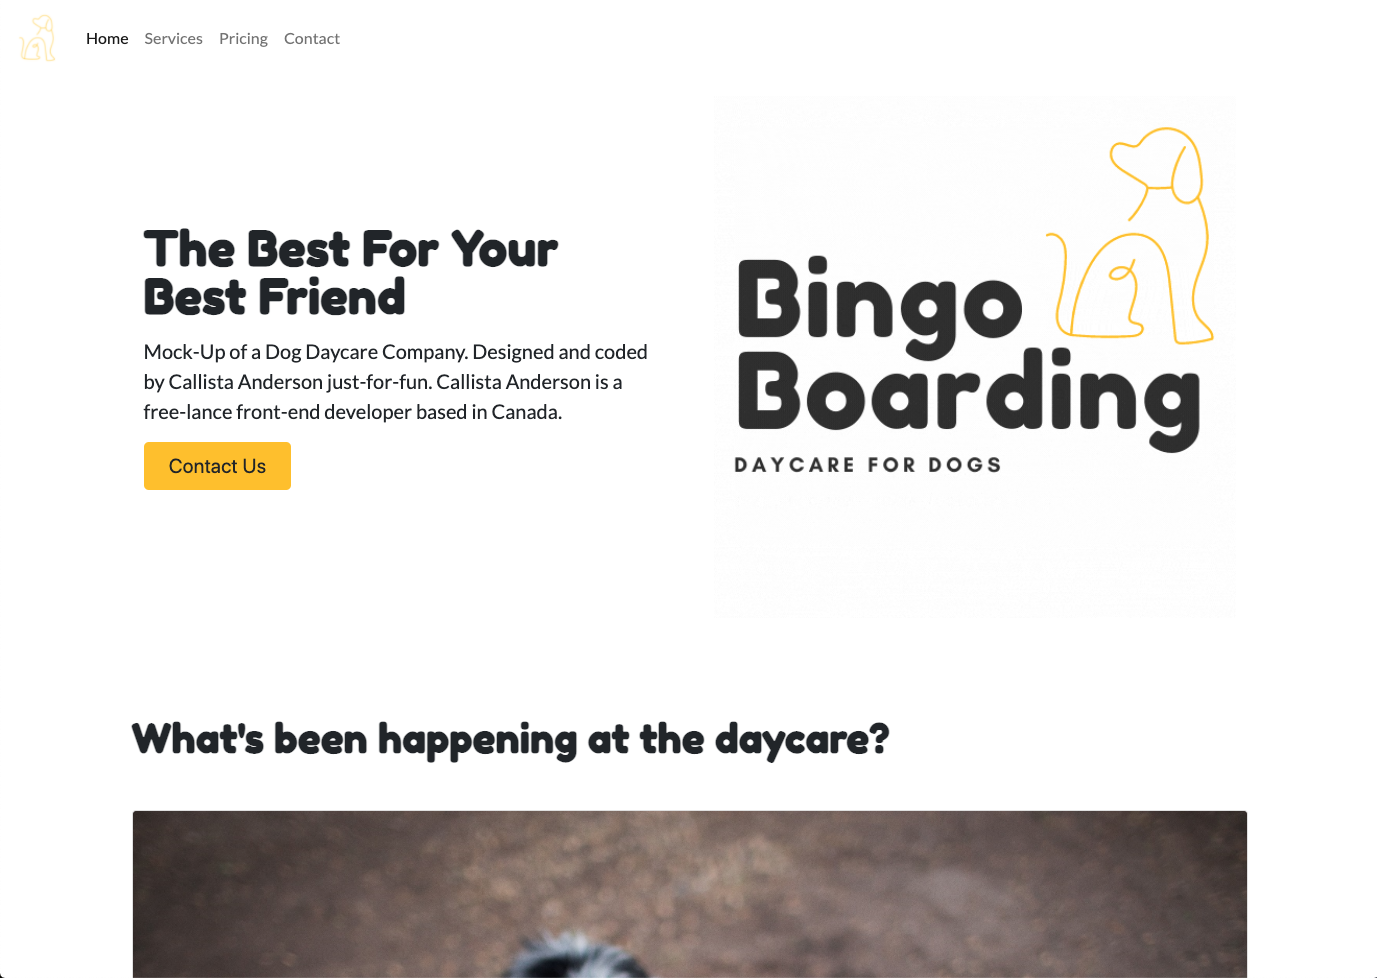
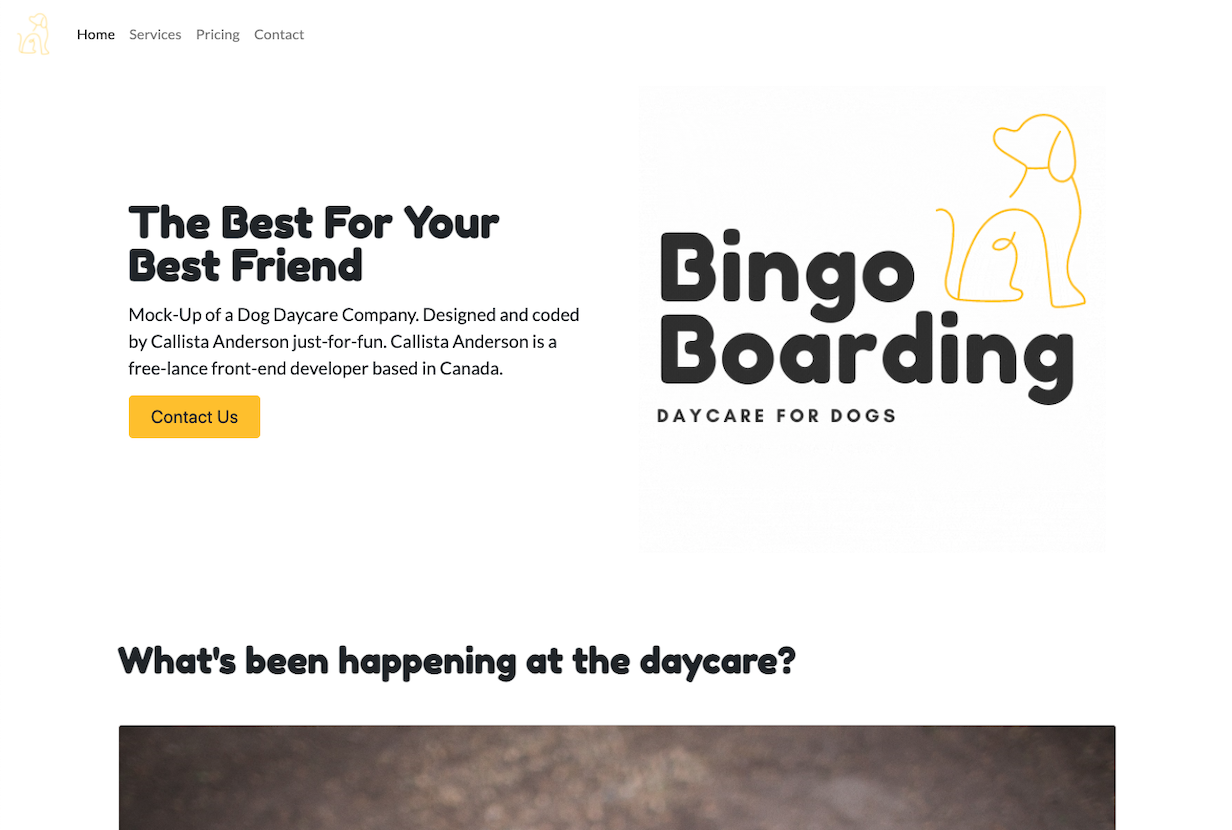
change font and colour palette

diff --git a/index.html b/index.html
@@ -12,7 +12,7 @@
     <link rel="preconnect" href="https://fonts.googleapis.com" />
     <link rel="preconnect" href="https://fonts.gstatic.com" crossorigin />
     <link
-      href="https://fonts.googleapis.com/css2?family=Nanum+Gothic&family=Nanum+Myeongjo:wght@700&display=swap"
+      href="https://fonts.googleapis.com/css2?family=Barlow:wght@700&family=Montserrat&display=swap"
       rel="stylesheet"
     />
     <script
@@ -30,7 +30,9 @@
   <body>
     <nav class="navbar sticky-top navbar-expand-md navbar-light">
       <div class="container-fluid">
-        <a class="navbar-brand" href="#">CA</a>
+        <a class="navbar-brand" href="/">
+          <img src="/img/CA.gif" class="rounded" width="50" height="50" />
+        </a>
         <button
           class="navbar-toggler"
           type="button"
@@ -53,29 +55,26 @@
       </div>
     </nav>
     <div class="hero">
-      <h1 class="pt-5">Callista Anderson</h1>
-      <p>Front-end Developer, based in Canada.</p>
+      <h1>Callista Anderson</h1>
+      <p class="text-uppercase">Front-end Developer, based in Canada.</p>
     </div>
     <div class="container mt-5" id="about-section">
       <div class="row">
         <div class="col-md-6">
           <img
-            src="https://via.placeholder.com/300x400.png?text=Photo+of+Callista+Anderson"
+            src="/img/solo-coder.png"
             class="img-fluid"
             alt="Photo of Callista Anderson"
           />
         </div>
-        <div class="col-md-6 mt-5">
+        <div class="col-md-6 mt-4">
           <h2>About Me</h2>
           <p>
-            Far far away, behind the word mountains, far from the countries
-            Vokalia and Consonantia, there live the blind texts. Separated they
-            live in Bookmarksgrove right at the coast of the Semantics, a large
-            language ocean. A small river named Duden flows by Far far away,
-            behind the word mountains, far from the countries Vokalia and
-            Consonantia, there live the blind texts. Separated they live in
-            Bookmarksgrove right at the coast of the Semantics, a large language
-            ocean. A small river named Duden flows by
+            My name is Callista. I am a free-lance front-end developer and
+            aspiring web designer based in Canada. I build webpages for
+            businesses from scratch and have completed multiple SheCodes coding
+            workshops for women. I balance this with a part-time work from home
+            admistrative job, all while being a mother to two amazing children.
           </p>
         </div>
       </div>
@@ -140,22 +139,47 @@
         </div>
       </div>
     </div>
-    <footer>
-      <div class="d-flex justify-content-center mt-5 mb-5">
-        <a class="btn contact-btn m-3" href="..." title="Facebook Link"
-          ><i class="fab fa-facebook-f"></i
-        ></a>
-        <a class="btn contact-btn m-3" href="..." title="Linkedin Link"
-          ><i class="fab fa-linkedin-in"></i
-        ></a>
-        <a class="btn contact-btn m-3" href="..." title="GitHub Link"
-          ><i class="fab fa-github"></i
-        ></a>
-        <a class="btn contact-btn m-3" href="..." title="Email Link"
-          ><i class="far fa-envelope"></i
-        ></a>
-      </div>
-    </footer>
+
+    <div class="container mt-5">
+      <footer
+        class="
+          d-flex
+          flex-wrap
+          justify-content-between
+          align-items-center
+          py-3
+          my-4
+          border-top
+        "
+      >
+        <div class="col-md-4 d-flex align-items-center">
+          <a
+            href="/"
+            class="mb-3 me-2 mb-md-0 text-muted text-decoration-none lh-1"
+          >
+            <img src="/img/CA.png" width="30" height="30" />
+          </a>
+          <span class="text-muted">&copy; 2021 Callista Anderson</span>
+        </div>
+
+        <ul class="nav col-md-4 justify-content-end list-unstyled d-flex">
+          <li class="ms-3">
+            <a class="text-muted" href="#"><i class="fab fa-facebook-f"></i></a>
+          </li>
+          <li class="ms-3">
+            <a class="text-muted" href="#"
+              ><i class="fab fa-linkedin-in"></i
+            ></a>
+          </li>
+          <li class="ms-3">
+            <a class="text-muted" href="#"><i class="fab fa-github"></i></a>
+          </li>
+          <li class="ms-3">
+            <a class="text-muted" href="#"><i class="far fa-envelope"></i></a>
+          </li>
+        </ul>
+      </footer>
+    </div>
     <script
       src="https://cdn.jsdelivr.net/npm/bootstrap@5.1.0/dist/js/bootstrap.bundle.min.js"
       integrity="sha384-U1DAWAznBHeqEIlVSCgzq+c9gqGAJn5c/t99JyeKa9xxaYpSvHU5awsuZVVFIhvj"

diff --git a/portfolio.html b/portfolio.html
@@ -14,7 +14,7 @@
       <link rel="preconnect" href="https://fonts.googleapis.com" />
       <link rel="preconnect" href="https://fonts.gstatic.com" crossorigin />
       <link
-        href="https://fonts.googleapis.com/css2?family=Nanum+Gothic&family=Nanum+Myeongjo:wght@700&display=swap"
+        href="https://fonts.googleapis.com/css2?family=Barlow:wght@700&family=Montserrat&display=swap"
         rel="stylesheet"
       />
       <script
@@ -32,7 +32,9 @@
     <body>
       <nav class="navbar sticky-top navbar-expand-md navbar-light">
         <div class="container-fluid">
-          <a class="navbar-brand" href="#">CA</a>
+          <a class="navbar-brand" href="/">
+            <img src="/img/CA.gif" class="rounded" width="50" height="50" />
+          </a>
           <button
             class="navbar-toggler"
             type="button"
@@ -56,7 +58,7 @@
       </nav>
       <h1 class="m-5">Portfolio</h1>
       <div class="container">
-        <div class="row mb-4" id="weather-project">
+        <div class="row mb-5" id="weather-project">
           <div class="col-md-6">
             <img
               src="/img/weather.png"
@@ -88,8 +90,15 @@
             >
           </div>
         </div>
-        <div class="row mb-4" id="vacation-project">
-          <div class="col-md-6">
+        <div class="row mb-5" id="vacation-project">
+          <div class="col-md-6 order-md-1">
+            <img
+              src="/img/vacation.png"
+              class="img-fluid"
+              alt="Photo of Vacation Rental Page"
+            />
+          </div>
+          <div class="col-md-6 order-md-12">
             <h2>Vacation Rental</h2>
             <p>
               This is a multi-page project for a beautiful Vacation Home Rental.
@@ -105,13 +114,6 @@
               title="Vacation Project"
               >Visit Project</a
             >
-          </div>
-          <div class="col-md-6">
-            <img
-              src="/img/vacation.png"
-              class="img-fluid"
-              alt="Photo of Vacation Rental Page"
-            />
           </div>
         </div>
         <div class="row" id="dog-project">
@@ -140,22 +142,49 @@
           </div>
         </div>
       </div>
-      <footer>
-        <div class="d-flex justify-content-center mt-5 mb-5">
-          <a class="btn contact-btn m-3" href="..." title="Facebook Link"
-            ><i class="fab fa-facebook-f"></i
-          ></a>
-          <a class="btn contact-btn m-3" href="..." title="Linkedin Link"
-            ><i class="fab fa-linkedin-in"></i
-          ></a>
-          <a class="btn contact-btn m-3" href="..." title="GitHub Link"
-            ><i class="fab fa-github"></i
-          ></a>
-          <a class="btn contact-btn m-3" href="..." title="Email Link"
-            ><i class="far fa-envelope"></i
-          ></a>
-        </div>
-      </footer>
+
+      <div class="container mt-5">
+        <footer
+          class="
+            d-flex
+            flex-wrap
+            justify-content-between
+            align-items-center
+            py-3
+            my-4
+            border-top
+          "
+        >
+          <div class="col-md-4 d-flex align-items-center">
+            <a
+              href="/"
+              class="mb-3 me-2 mb-md-0 text-muted text-decoration-none lh-1"
+            >
+              <img src="/img/CA.png" width="30" height="30" />
+            </a>
+            <span class="text-muted">&copy; 2021 Callista Anderson</span>
+          </div>
+
+          <ul class="nav col-md-4 justify-content-end list-unstyled d-flex">
+            <li class="ms-3">
+              <a class="text-muted" href="#"
+                ><i class="fab fa-facebook-f"></i
+              ></a>
+            </li>
+            <li class="ms-3">
+              <a class="text-muted" href="#"
+                ><i class="fab fa-linkedin-in"></i
+              ></a>
+            </li>
+            <li class="ms-3">
+              <a class="text-muted" href="#"><i class="fab fa-github"></i></a>
+            </li>
+            <li class="ms-3">
+              <a class="text-muted" href="#"><i class="far fa-envelope"></i></a>
+            </li>
+          </ul>
+        </footer>
+      </div>
       <script
         src="https://cdn.jsdelivr.net/npm/bootstrap@5.1.0/dist/js/bootstrap.bundle.min.js"
         integrity="sha384-U1DAWAznBHeqEIlVSCgzq+c9gqGAJn5c/t99JyeKa9xxaYpSvHU5awsuZVVFIhvj"

diff --git a/contact.html b/contact.html
@@ -12,7 +12,7 @@
     <link rel="preconnect" href="https://fonts.googleapis.com" />
     <link rel="preconnect" href="https://fonts.gstatic.com" crossorigin />
     <link
-      href="https://fonts.googleapis.com/css2?family=Nanum+Gothic&family=Nanum+Myeongjo:wght@700&display=swap"
+      href="https://fonts.googleapis.com/css2?family=Barlow:wght@700&family=Montserrat&display=swap"
       rel="stylesheet"
     />
     <script
@@ -30,7 +30,9 @@
   <body>
     <nav class="navbar sticky-top navbar-expand-md navbar-light">
       <div class="container-fluid">
-        <a class="navbar-brand" href="#">CA</a>
+        <a class="navbar-brand" href="/">
+          <img src="/img/CA.gif" class="rounded" width="50" height="50" />
+        </a>
         <button
           class="navbar-toggler"
           type="button"
@@ -73,12 +75,53 @@
         </div>
         <div class="col-md-6">
           <img
-            src="https://via.placeholder.com/300x400.png?text=Photo+of+Callista+Anderson"
+            src="/img/desk-surface.png"
             class="img-fluid"
             alt="Photo of Callista Anderson"
           />
         </div>
       </div>
+    </div>
+
+    <div class="container" style="margin-top: 200px">
+      <footer
+        class="
+          d-flex
+          flex-wrap
+          justify-content-between
+          align-items-center
+          py-3
+          my-4
+          border-top
+        "
+      >
+        <div class="col-md-4 d-flex align-items-center">
+          <a
+            href="/"
+            class="mb-3 me-2 mb-md-0 text-muted text-decoration-none lh-1"
+          >
+            <img src="/img/CA.png" width="30" height="30" />
+          </a>
+          <span class="text-muted">&copy; 2021 Callista Anderson</span>
+        </div>
+
+        <ul class="nav col-md-4 justify-content-end list-unstyled d-flex">
+          <li class="ms-3">
+            <a class="text-muted" href="#"><i class="fab fa-facebook-f"></i></a>
+          </li>
+          <li class="ms-3">
+            <a class="text-muted" href="#"
+              ><i class="fab fa-linkedin-in"></i
+            ></a>
+          </li>
+          <li class="ms-3">
+            <a class="text-muted" href="#"><i class="fab fa-github"></i></a>
+          </li>
+          <li class="ms-3">
+            <a class="text-muted" href="#"><i class="far fa-envelope"></i></a>
+          </li>
+        </ul>
+      </footer>
     </div>
 
     <script

diff --git a/src/style.css b/src/style.css
@@ -1,13 +1,13 @@
 :root {
-  --primary-color: #064420;
-  --accent-color: #e4efe7;
-  --bkgrd-color: #fdfaf6;
-  --bkgrd-accent-color: #faf1e6;
+  --primary-color: #000000;
+  --accent-color: #92c1d3;
+  --bkgrd-color: #ffffff;
+  --bkgrd-accent-color: #dfcfd3;
 }
 body {
   max-width: 992px;
   margin: 0 auto;
-  font-family: "Nanum Gothic", sans-serif;
+  font-family: "Montserrat", sans-serif;
   background-color: var(--bkgrd-color);
   text-align: center;
 }
@@ -15,19 +15,19 @@ body {
   background-color: var(--bkgrd-accent-color);
 }
 .navbar-brand {
-  font-family: "Nanum Myeongjo", serif;
+  font-family: "Barlow", sans-serif;
 }
 .hero {
   background-color: var(--bkgrd-accent-color);
   padding: 200px 0;
 }
 h1 {
-  font-family: "Nanum Myeongjo", serif;
+  font-family: "Barlow", sans-serif;
   color: var(--primary-color);
   font-size: 96px;
 }
 h2 {
-  font-family: "Nanum Myeongjo", serif;
+  font-family: "Barlow", sans-serif;
   color: var(--primary-color);
   font-size: 48px;
 }
@@ -39,10 +39,6 @@ p {
 .main-btn {
   padding: 18px 30px;
   background-color: var(--accent-color);
-  box-shadow: 5px 5px 10px 0 rgba(174, 174, 192, 0.4),
-    -5px -5px 30px 0 rgba(253, 250, 246, 1),
-    inset -5px -5px 10px 0 rgba(174, 174, 192, 0.25),
-    inset 5px 5px 10px 0 rgba(253, 250, 246, 1);
 }
 .contact-btn {
   color: var(--primary-color);
@@ -58,6 +54,10 @@ p {
   h1 {
     font-size: 55px;
   }
+  h2 {
+    font-size: 35px;
+    padding: 10px 0;
+  }
   .project-img {
     display: none;
   }
@@ -69,6 +69,5 @@ p {
   .contact-icons {
     display: inline-flex;
     flex-direction: column;
-    margin-top: 45px;
   }
 }
